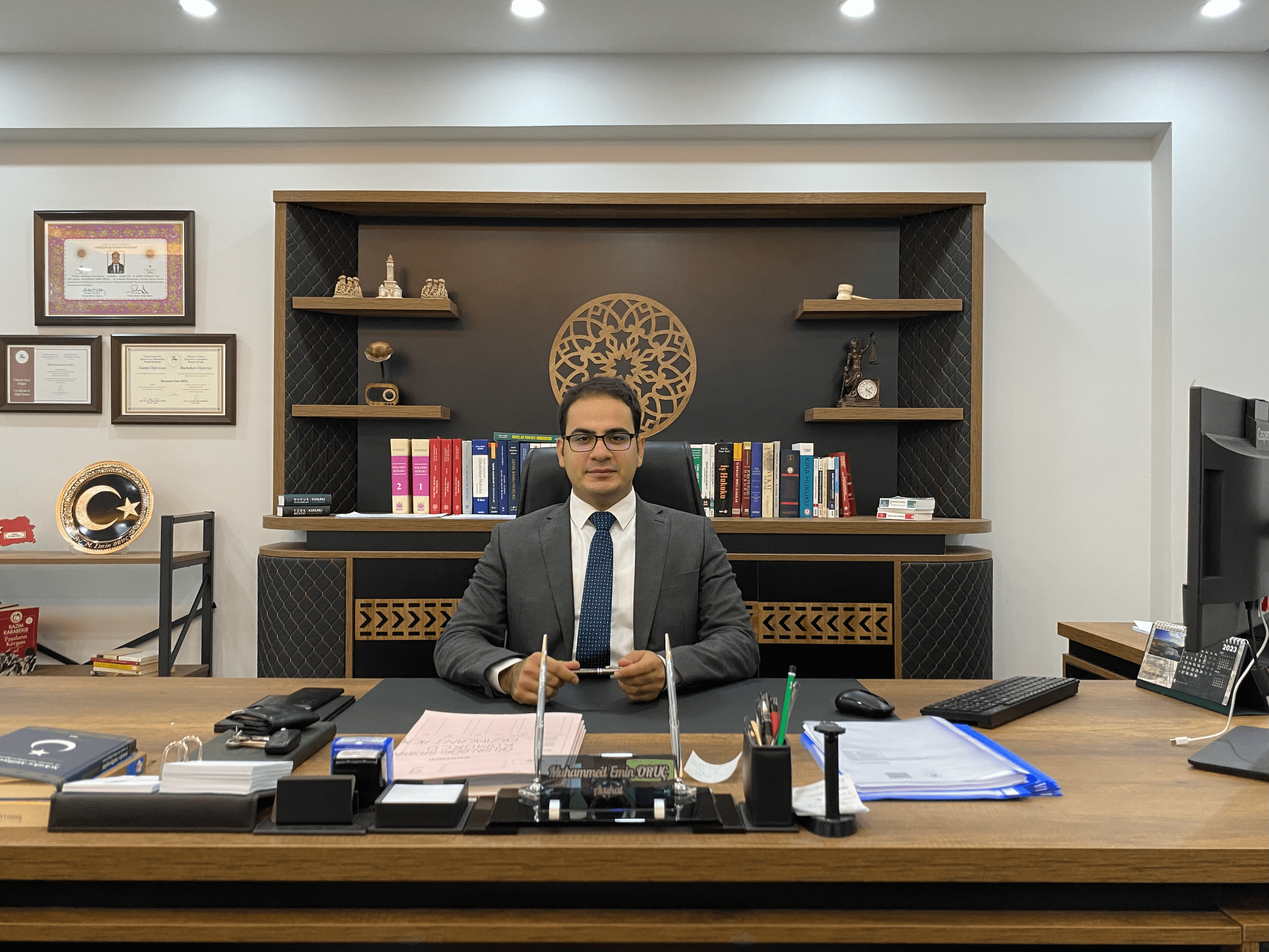
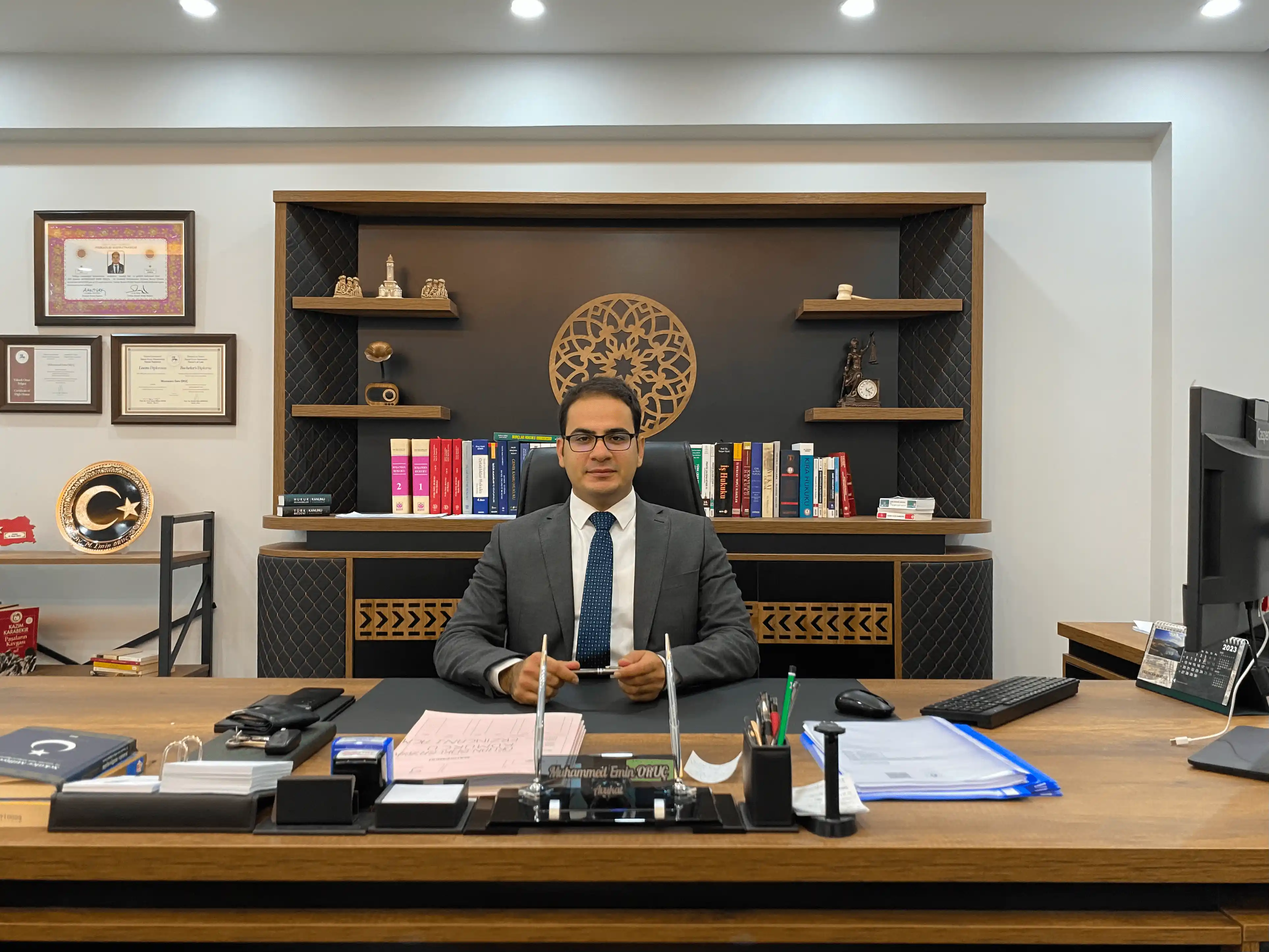
foto değiş küçült boyut

diff --git a/src/components/PersonalInfo/PersonalInfo.jsx b/src/components/PersonalInfo/PersonalInfo.jsx
@@ -1,5 +1,5 @@
 import React from 'react'
-import EminOruc2 from '../../assets/images/emin-oruc2.png'
+import EminOruc2 from '../../assets/images/emin-oruc2.webp'
 import './PersonalInfo.css'
 
 const PersonalInfo = () => {
